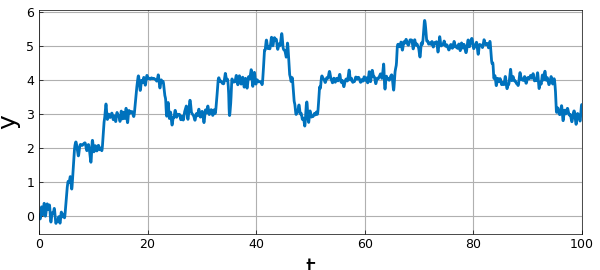
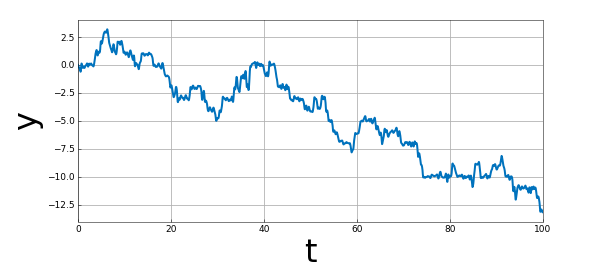
Verify complete LevelHopping solves and restore source figure sizes

Changed region(s): [[0.0, 0.0297, 0.99, 1.0]]

diff --git a/tests/test_examples/test_levelhopping_source.py b/tests/test_examples/test_levelhopping_source.py
@@ -1,0 +1,145 @@
+"""Literal native LevelHopping forcing, order and renderer controls."""
+
+import importlib
+import importlib.util
+import sys
+from pathlib import Path
+from types import SimpleNamespace
+
+import jax
+import jax.numpy as jnp
+import numpy as np
+import pytest
+from PIL import Image
+
+from chebfunjax import chebfun
+from chebfunjax.operators.chebop import _IVPProxy, _TrigX
+
+
+def page():
+    spec = importlib.util.spec_from_file_location(
+        "levelhopping_source_controls",
+        Path(__file__).resolve().parents[2] / "examples/ode-random/levelhopping.py",
+    )
+    mod = importlib.util.module_from_spec(spec)
+    sys.modules[spec.name] = mod
+    spec.loader.exec_module(mod)
+    return mod
+
+
+def test_actual_nonperiodic_source_draws(monkeypatch):
+    mod = page()
+    rf = importlib.import_module("chebfunjax.utils._randnfun")
+    original = rf._periodic_coefficients
+    calls = []
+
+    def observed(draws, length, big, cmplx):
+        result = original(draws, length, big, cmplx)
+        calls.append((np.asarray(draws), length, big, cmplx, np.asarray(result)))
+        return result
+
+    monkeypatch.setattr(rf, "_periodic_coefficients", observed)
+    key = jax.random.PRNGKey(0)
+    objects = []
+    for lam in (0.4, 0.2):
+        f, key = mod._draw_forcing(lam, key)
+        objects.append(f)
+    assert len(calls) == 2
+    for (draws, length, big, cmplx, result), m in zip(calls, (300, 600)):
+        assert draws.shape == (2, 2 * m + 1) and length == 120 and big is True and cmplx is False
+        order = np.r_[np.arange(2 * m, -1, -2), np.arange(1, 2 * m + 1, 2)]
+        c = draws[:, order].T
+        c = (c[:, :1] + 1j * c[:, 1:]) / np.sqrt(2.0)
+        c = (c + c[::-1].conj()) / np.sqrt(2.0)
+        np.testing.assert_allclose(result, c / np.sqrt(120.0), rtol=0, atol=1e-15)
+    for f in objects:
+        assert tuple(f.domain.breakpoints) == (0.0, 100.0)
+        assert all(type(p.tech).__name__ == "Chebtech2" for p in f.funs)
+        assert bool(jnp.all(jnp.isfinite(f(jnp.linspace(0, 100, 81)))))
+    np.testing.assert_array_equal(
+        key, jax.random.split(jax.random.split(jax.random.PRNGKey(0))[0])[0]
+    )
+
+
+def test_literal_operator():
+    mod = page()
+    y, dy = map(jnp.asarray, (0.37, -0.8))
+    actual = mod._operator(_IVPProxy([y, dy], x=jnp.asarray(7.0)))
+    if isinstance(actual, _TrigX):
+        actual = actual.v
+    np.testing.assert_array_equal(actual, dy + 2 * jnp.sin(2 * jnp.pi * y))
+
+
+def test_source_order(monkeypatch, capsys, tmp_path):
+    mod = page()
+    events = []
+    operators = []
+    solutions = []
+
+    class Operator:
+        def __init__(self, op, domain):
+            assert domain == (0.0, 100.0)
+            operators.append(self)
+
+        def solve(self, rhs):
+            assert self.lbc == 0.0
+            events.append(("solve", rhs))
+            value = object()
+            solutions.append(value)
+            return value
+
+    def draw(lam, key):
+        events.append(("draw", lam))
+        return lam, key
+
+    def plot(y, lw, name):
+        events.append(("plot", solutions.index(y), lw, name))
+
+    times = iter((100.0, 105.0))
+    monkeypatch.setattr(mod, "time", SimpleNamespace(perf_counter=lambda: next(times)))
+    for name, value in [
+        ("Chebop", Operator),
+        ("_draw_forcing", draw),
+        ("_plot", plot),
+        ("_IMG", tmp_path),
+    ]:
+        monkeypatch.setattr(mod, name, value)
+    result = mod.run()
+    assert len(operators) == 1
+    assert events == [
+        ("draw", 0.4),
+        ("solve", 0.4),
+        ("plot", 0, 2, "LevelHopping_01.png"),
+        ("draw", 0.2),
+        ("solve", 0.2),
+        ("plot", 1, 1, "LevelHopping_02.png"),
+    ]
+    assert result["forcing"] == (0.4, 0.2) and result["solutions"] == tuple(solutions)
+    assert capsys.readouterr().out == "total_time_in_seconds =\n  5.000000\n"
+
+
+@pytest.mark.parametrize("linewidth", [2, 1])
+def test_actual_saved_artists(monkeypatch, tmp_path, linewidth):
+    mod = page()
+    save = mod.save_chebfun_figure
+    seen = []
+
+    def observe(fig, path, **kwargs):
+        ax = fig.axes[0]
+        assert len(ax.lines) == 1 and ax.lines[0].get_linewidth() == linewidth
+        assert ax.get_xlabel() == "t" and ax.get_ylabel() == "y" and ax.get_title() == ""
+        assert all(t.get_fontsize() == 32 for t in (ax.xaxis.label, ax.yaxis.label))
+        assert any(l.get_visible() for l in ax.get_xgridlines())
+        result = save(fig, path, **kwargs)
+        fig.canvas.draw()
+        for t in (ax.xaxis.label, ax.yaxis.label):
+            b = t.get_window_extent(fig.canvas.get_renderer())
+            assert b.x0 >= 0 and b.y0 >= 0 and b.x1 <= fig.bbox.width and b.y1 <= fig.bbox.height
+        assert Image.open(path).size == (600, 269)
+        seen.append(path)
+        return result
+
+    monkeypatch.setattr(mod, "save_chebfun_figure", observe)
+    monkeypatch.setattr(mod, "_IMG", tmp_path)
+    mod._plot(chebfun(lambda x: jnp.sin(x / 8), domain=mod.DOM), linewidth, "actual.png")
+    assert len(seen) == 1

diff --git a/examples/ode-random/levelhopping.py b/examples/ode-random/levelhopping.py
@@ -1,72 +1,77 @@
 """Random level hopping.
 
-Translation of ode-random/LevelHopping.m by Nick Trefethen (May
-2017): y' = -2 sin(2 pi y) + f has stable fixed points at the
-integers; smooth random noise makes the process hop between them.
-Two trajectories on [0, 100]: lambda = 0.4 and 0.2.
-
-Sample paths use JAX keys (MATLAB rng(0) not reproducible).
+Translation of ode-random/LevelHopping.m, Nick Trefethen, May 2017.
+Both source nonperiodic random forcings and [0,100] solves are retained.
+The explicit sequential JAX stream is unmatched to MATLAB rng(0).
 
 Original: https://www.chebfun.org/examples/ode-random/LevelHopping.html
 Copyright by The University of Oxford and The Chebfun Developers.
 """
 import matplotlib
 
-matplotlib.use("Agg")
-import os
+matplotlib.use('Agg')
 import sys
 import time
-import warnings
-
-import matplotlib.pyplot as plt
-import numpy as np
-
-sys.path.insert(0, os.path.join(os.path.dirname(__file__), '..', '..', 'src'))
+from pathlib import Path
 
 import jax
+import jax.numpy as jnp
+import matplotlib.pyplot as plt
 
+sys.path.insert(0, str(Path(__file__).resolve().parents[2] / 'src'))
+
+from chebfunjax import randnfun
 from chebfunjax.operators.chebop import Chebop
-from chebfunjax.plotting import chebfun_style
-from chebfunjax.plotting import save_chebfun_figure as _savefig
-from chebfunjax.utils.randnfun import randnfun
+from chebfunjax.plotting import chebfun_style, matlab_plot, save_chebfun_figure
 
 chebfun_style()
-_HERE = os.path.dirname(os.path.abspath(__file__))
-_IMG = os.path.join(_HERE, '..', '..', 'docs', 'images', 'ode-random')
-
+_IMG = Path(__file__).resolve().parents[2] / 'docs/images/ode-random'
 DOM = (0.0, 100.0)
+_SIZE = (600, 269)
+_DPI = 72.0
 
 
-def _run_one(lam, key, lw, fname):
-    N = Chebop(lambda y: y.diff() + 2 * (2 * np.pi * y).sin(), domain=DOM)
-    N.lbc = 0.0
-    f = randnfun(lam, DOM, big=True, key=key)
-    y = N.solve(f)
-    fig, ax = plt.subplots(figsize=(8.8, 4.6))
-    xx = np.linspace(*DOM, 8000)
-    ax.plot(xx, np.asarray(y(xx)), lw=lw)
+def _draw_forcing(lam, key):
+    forcing = randnfun(lam, DOM, 'big', key=key)
+    # The real nonperiodic source branch consumes one normal matrix draw.
+    key, _ = jax.random.split(key)
+    return forcing, key
+
+
+def _operator(y):
+    return y.diff() + 2 * (2 * jnp.pi * y).sin()
+
+
+def _plot(solution, linewidth, filename):
+    fig, ax = plt.subplots(figsize=(_SIZE[0]/_DPI, _SIZE[1]/_DPI), dpi=_DPI)
+    matlab_plot(solution, ax=ax, linewidth=linewidth)
     ax.grid(True)
-    ax.set_xlabel("t", fontsize=18)
-    ax.set_ylabel("y", fontsize=18)
-    ax.set_xlim(*DOM)
-    fig.set_facecolor("white")
-    fig.tight_layout()
-    _savefig(fig, os.path.join(_IMG, fname))
+    ax.set_xlabel('t', fontsize=32)
+    ax.set_ylabel('y', fontsize=32)
+    save_chebfun_figure(fig, _IMG/filename, size=_SIZE, dpi=_DPI, layout='matlab')
     plt.close(fig)
-    print(f"lambda={lam}: levels visited "
-          f"{sorted(set(np.round(np.asarray(y(xx))).astype(int)))}",
-          flush=True)
 
 
 def run():
-    os.makedirs(_IMG, exist_ok=True)
-    warnings.filterwarnings("ignore")
-    t0 = time.time()
-    _run_one(0.4, jax.random.PRNGKey(0), 2, "LevelHopping_01.png")
-    _run_one(0.2, jax.random.PRNGKey(1), 1, "LevelHopping_02.png")
-    print("total_time_in_seconds =")
-    print(f"  {time.time() - t0:.6f}")
+    _IMG.mkdir(parents=True, exist_ok=True)
+    key = jax.random.PRNGKey(0)
+    started = time.perf_counter()
+    N = Chebop(_operator, domain=DOM)
+    lam = 0.4
+    f1, key = _draw_forcing(lam, key)
+    N.lbc = 0.0
+    y1 = N.solve(f1)
+    _plot(y1, 2, 'LevelHopping_01.png')
+    lam = lam/2
+    f2, key = _draw_forcing(lam, key)
+    y2 = N.solve(f2)
+    _plot(y2, 1, 'LevelHopping_02.png')
+    elapsed = time.perf_counter() - started
+    print('total_time_in_seconds =')
+    print(f'  {elapsed:.6f}')
+    return {'forcing': (f1, f2), 'solutions': (y1, y2),
+            'elapsed_seconds': elapsed}
 
 
-if __name__ == "__main__":
+if __name__ == '__main__':
     run()

diff --git a/HANDOFF_CODEX.md b/HANDOFF_CODEX.md
@@ -1,5 +1,15 @@
 # chebfunjax: handoff to a Codex agent (2026-10-02)
 
+## LevelHopping completes both source solves (2026-10-10; latest)
+
+The complete page now finishes with53.919777s captured timing, both original
+full-domain solves and two fresh600x269 figures. Root5 portable tests pass;
+fullpage1 test passes with2968 runtime files independently rehashed.
+Prior first-solve payloads and second-solve replay match exactly. Updated
+whole figure-size audit:1305 mapped,33 mismatches across6 pages, none missing.
+JAX/MATLAB RNG and historical font/grid/raster differences remain unresolved.
+Evidence: docs/levelhopping_cpu_20261010.json.
+
 ## ODE113 history assembly bottleneck fixed (2026-10-10; latest)
 
 Bounded JAX stack/concatenate groups preserve ordered history and all existing

diff --git a/docs/examples/ode-random/LevelHopping.md b/docs/examples/ode-random/LevelHopping.md
@@ -37,7 +37,7 @@ total_time_in_seconds = toc
 
 ```text
 total_time_in_seconds =
-  456.596930
+  53.919777
 ```
 
 ---
